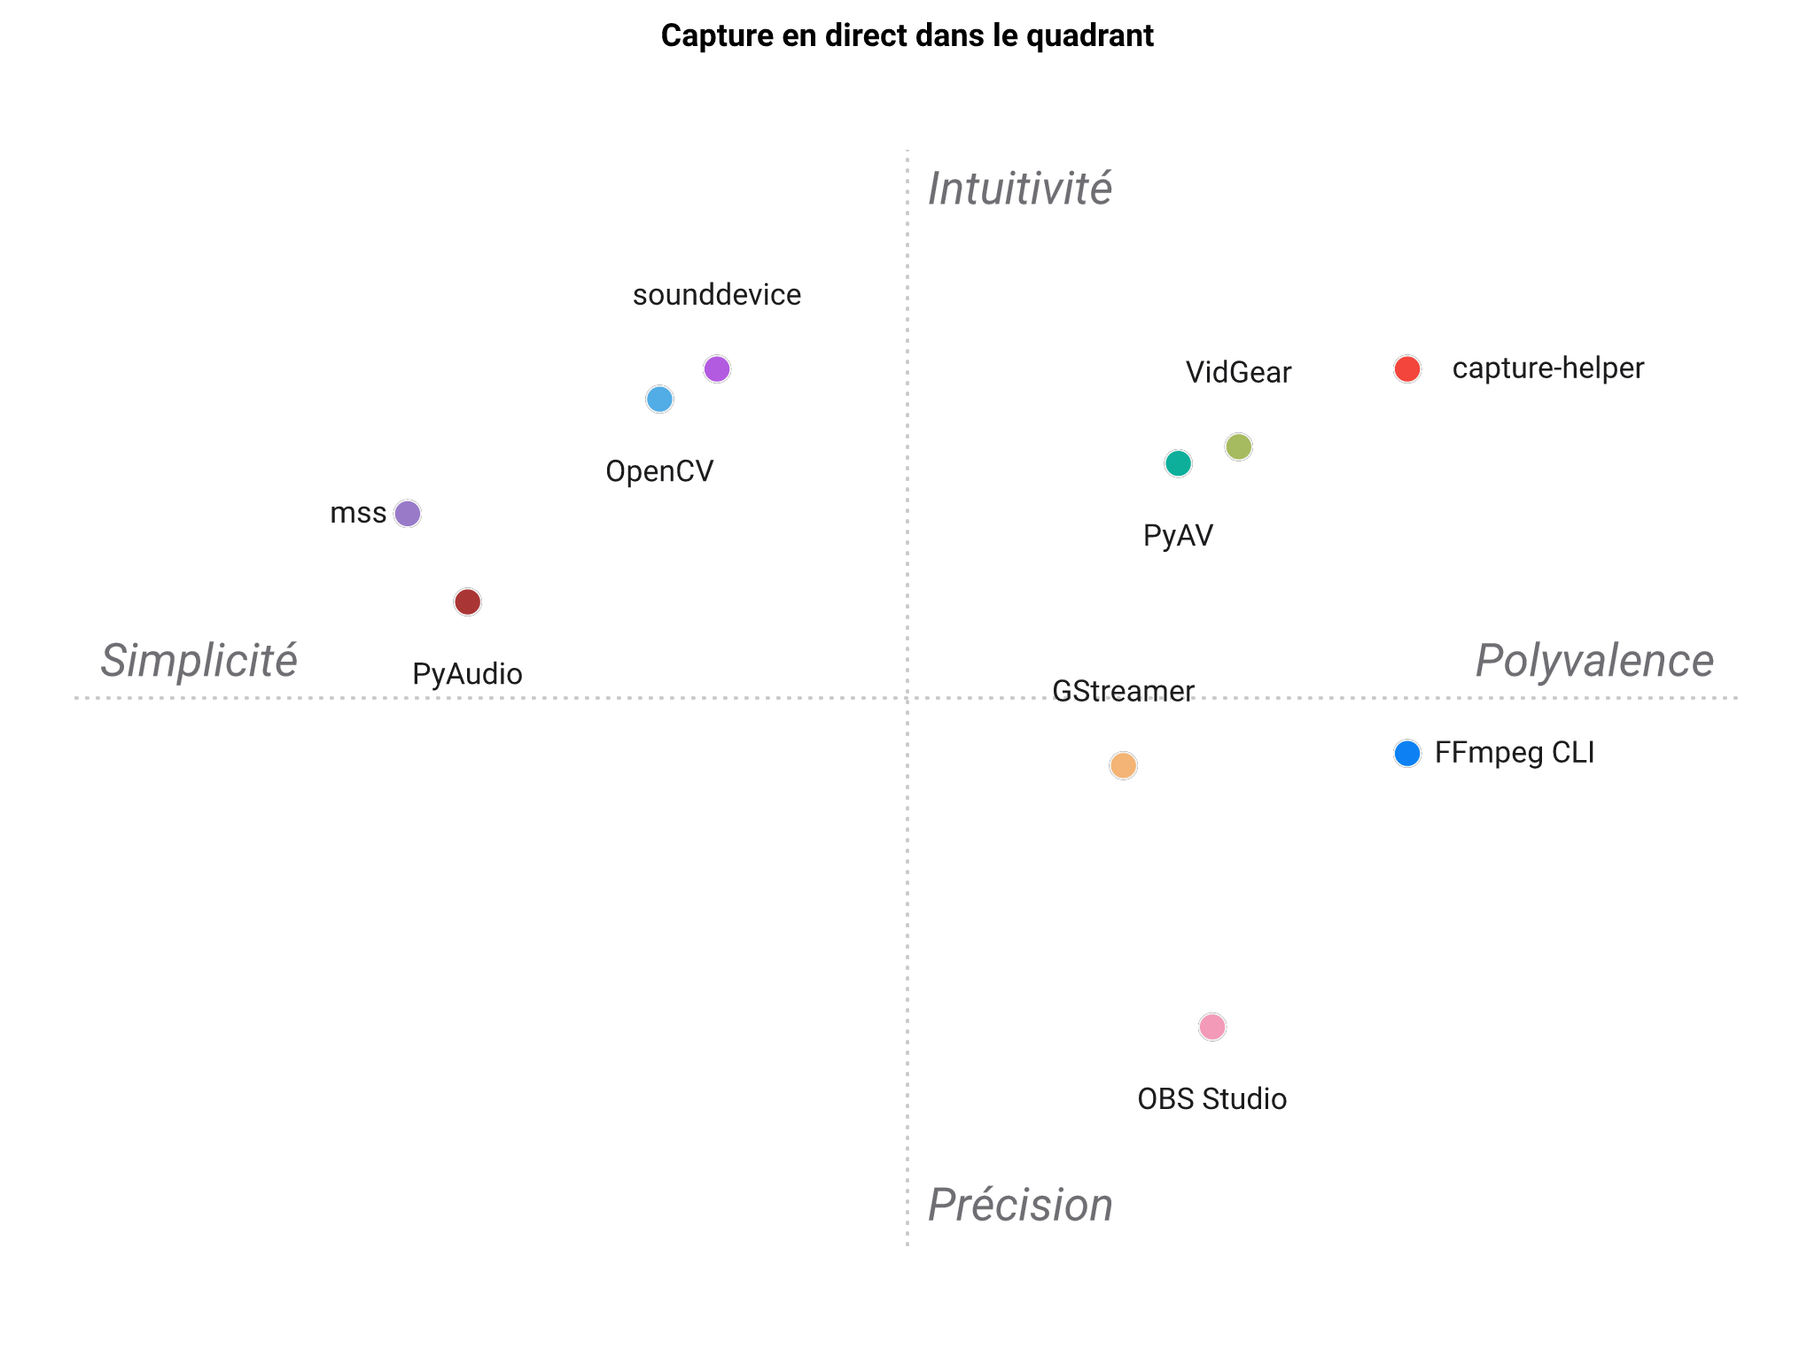
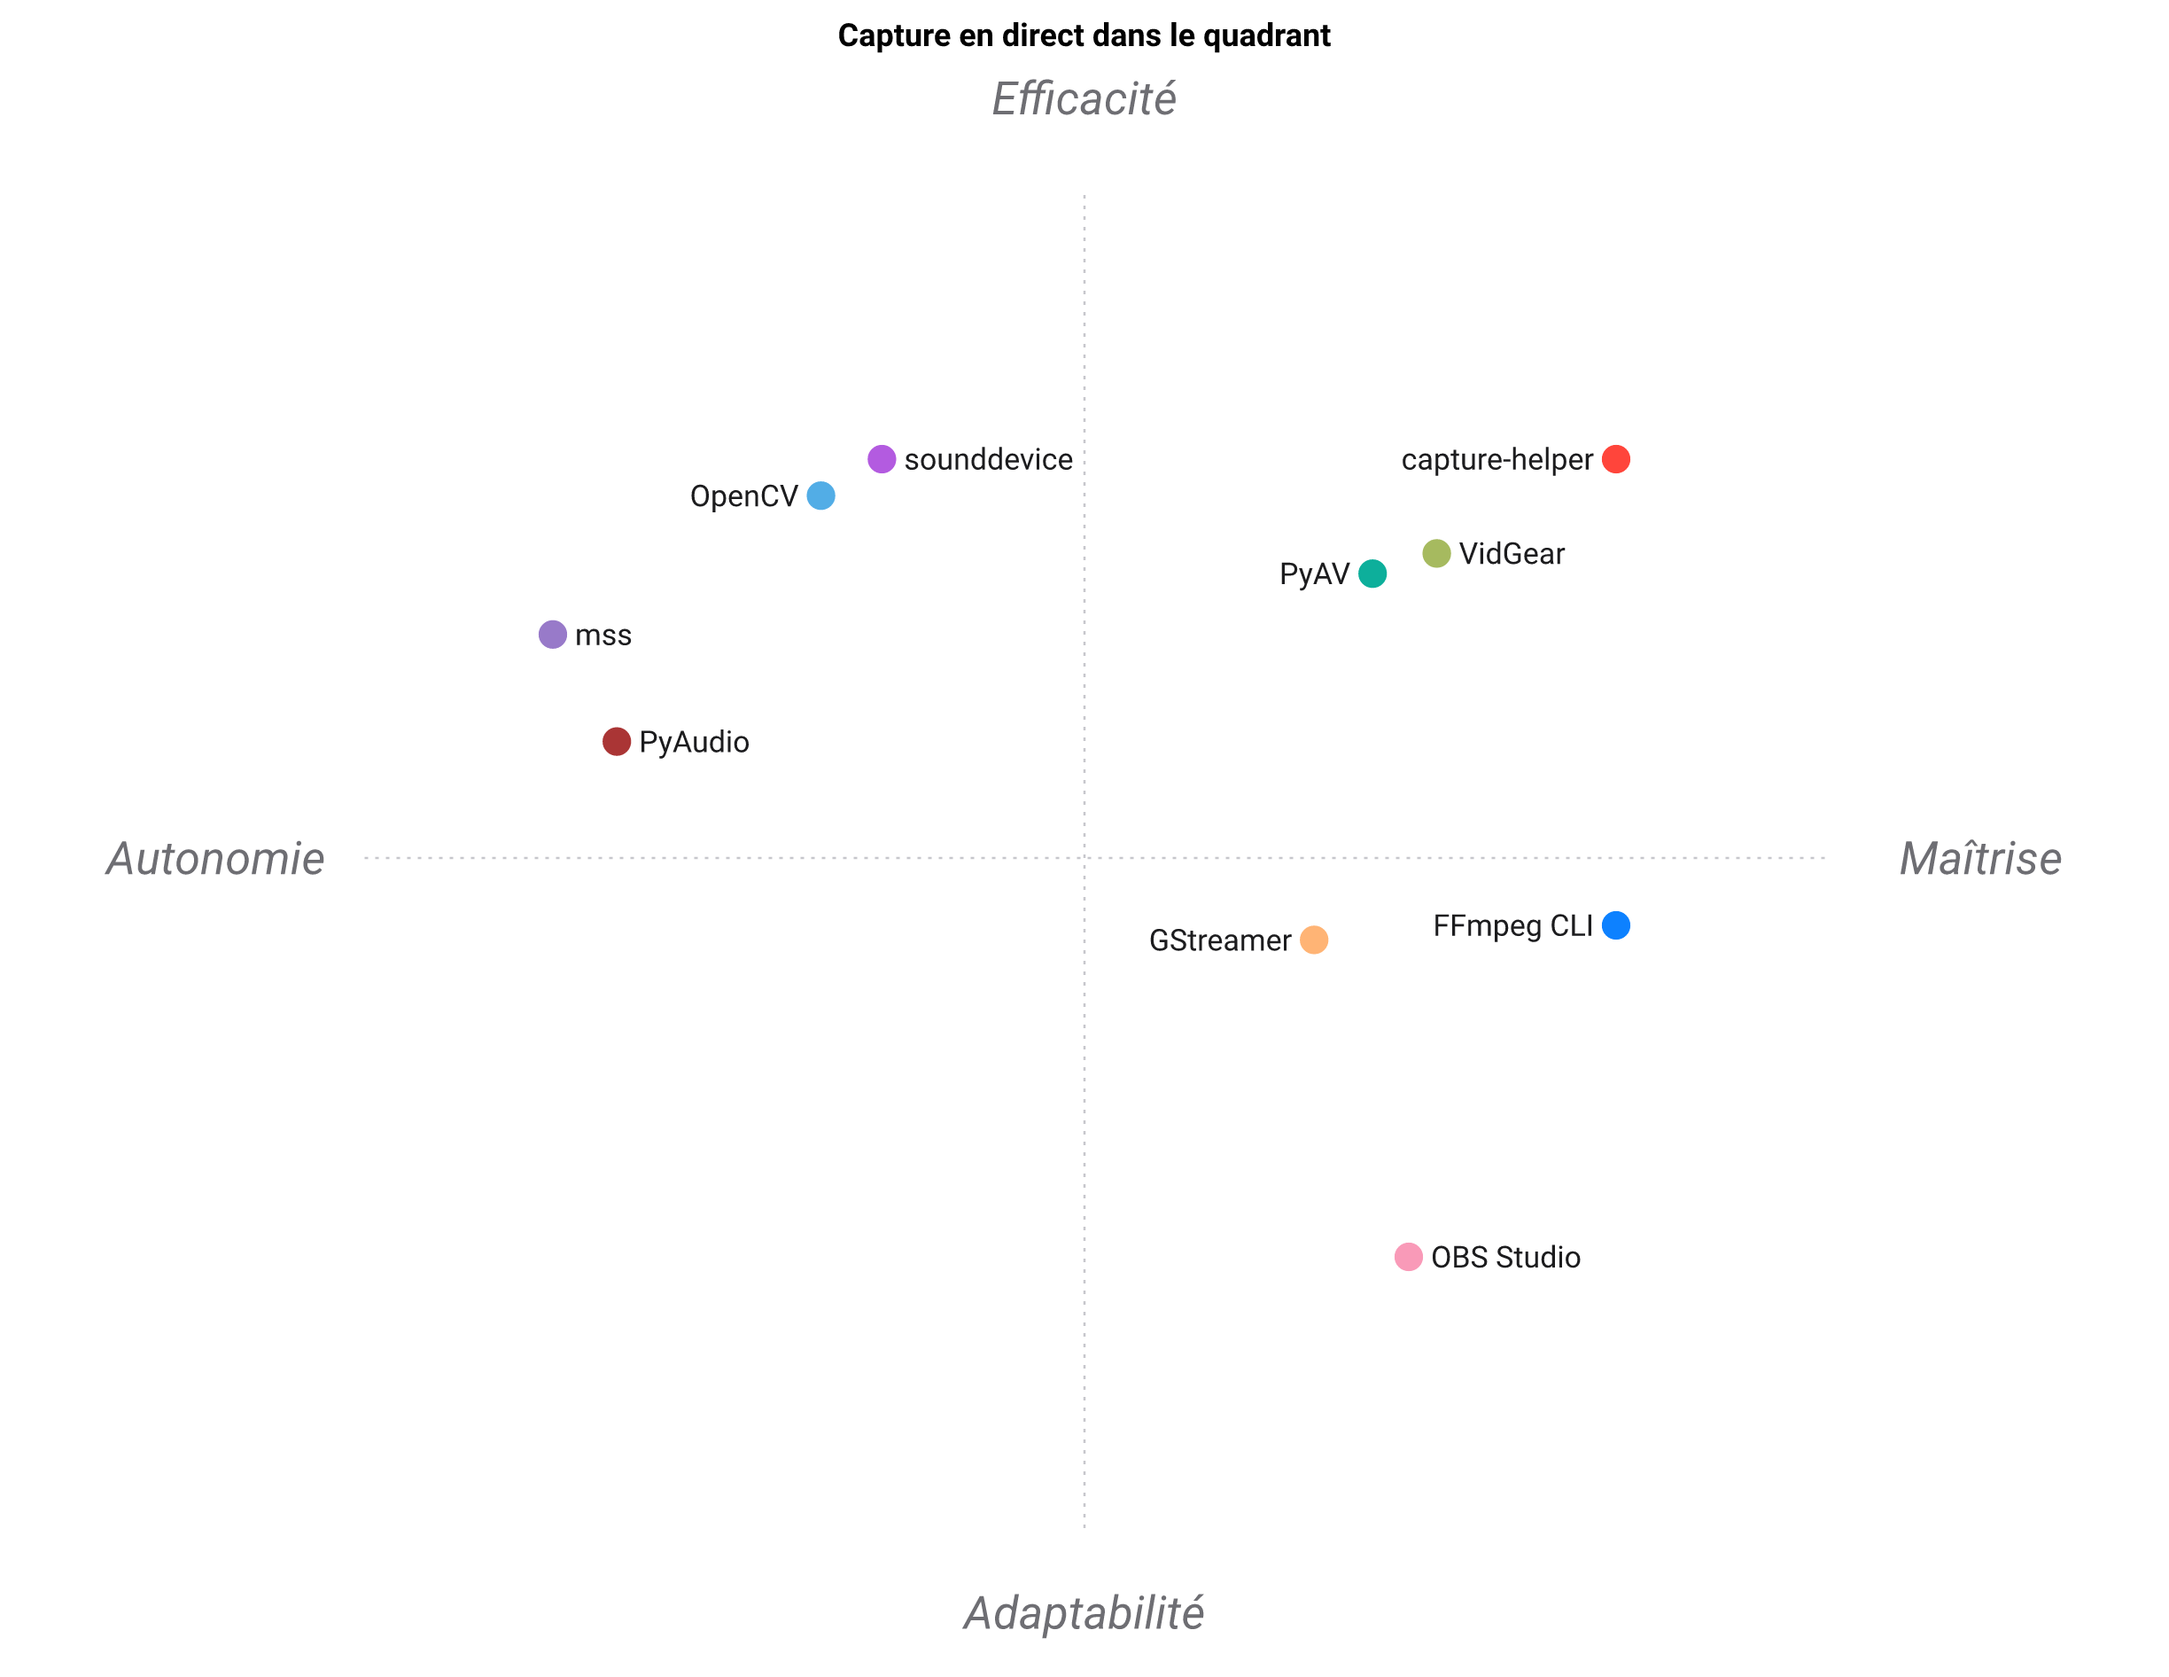
docs: regenerate LANDSCAPE/PAYSAGE positioning figures
Rerun via gen_landscape.py against the current standpoint (Vega retired,
SVG+resvg_py rasterisation pipeline).

diff --git a/PAYSAGE.md b/PAYSAGE.md
@@ -37,7 +37,7 @@ Représentation 2D du tableau ci-dessus.
 
 ![Carte de positionnement](https://raw.githubusercontent.com/warith-harchaoui/capture-helper/main/assets/paysage.png)
 
-La carte est un résumé en 2D des 7 critères : à lire comme une forme, pas comme un classement. « capture-helper » se situe dans le coin en haut à droite. Les axes se lisent **Horizontal — Simplicité ↔ Polyvalence** et **Vertical — Précision ↔ Intuitivité**.
+La carte est un résumé en 2D des 7 critères : à lire comme une forme, pas comme un classement. « capture-helper » se situe dans le coin en haut à droite. Les axes se lisent **Horizontal — Autonomie ↔ Maîtrise** et **Vertical — Adaptabilité ↔ Efficacité**.
 <!-- FIGURE:END -->
 
 ## Positionnement

diff --git a/LANDSCAPE.md b/LANDSCAPE.md
@@ -36,7 +36,7 @@ penalised — the score just reflects fit to *this* niche.
 
 ![Positioning map](https://raw.githubusercontent.com/warith-harchaoui/capture-helper/main/assets/landscape.png)
 
-The map is a 2-D summary of the seven criteria, so read it as a shape, not a scoreboard. `capture-helper` is at the top-right corner. The axes read **Horizontal — Efficiency ↔ Flexibility** and **Vertical — Interactivity ↔ Automation**.
+The map is a 2-D summary of the seven criteria, so read it as a shape, not a scoreboard. `capture-helper` is at the top-right corner. The axes read **Horizontal — Adaptable ↔ Versatile** and **Vertical — Accessible ↔ Intuitive**.
 <!-- FIGURE:END -->
 
 ## Positioning
